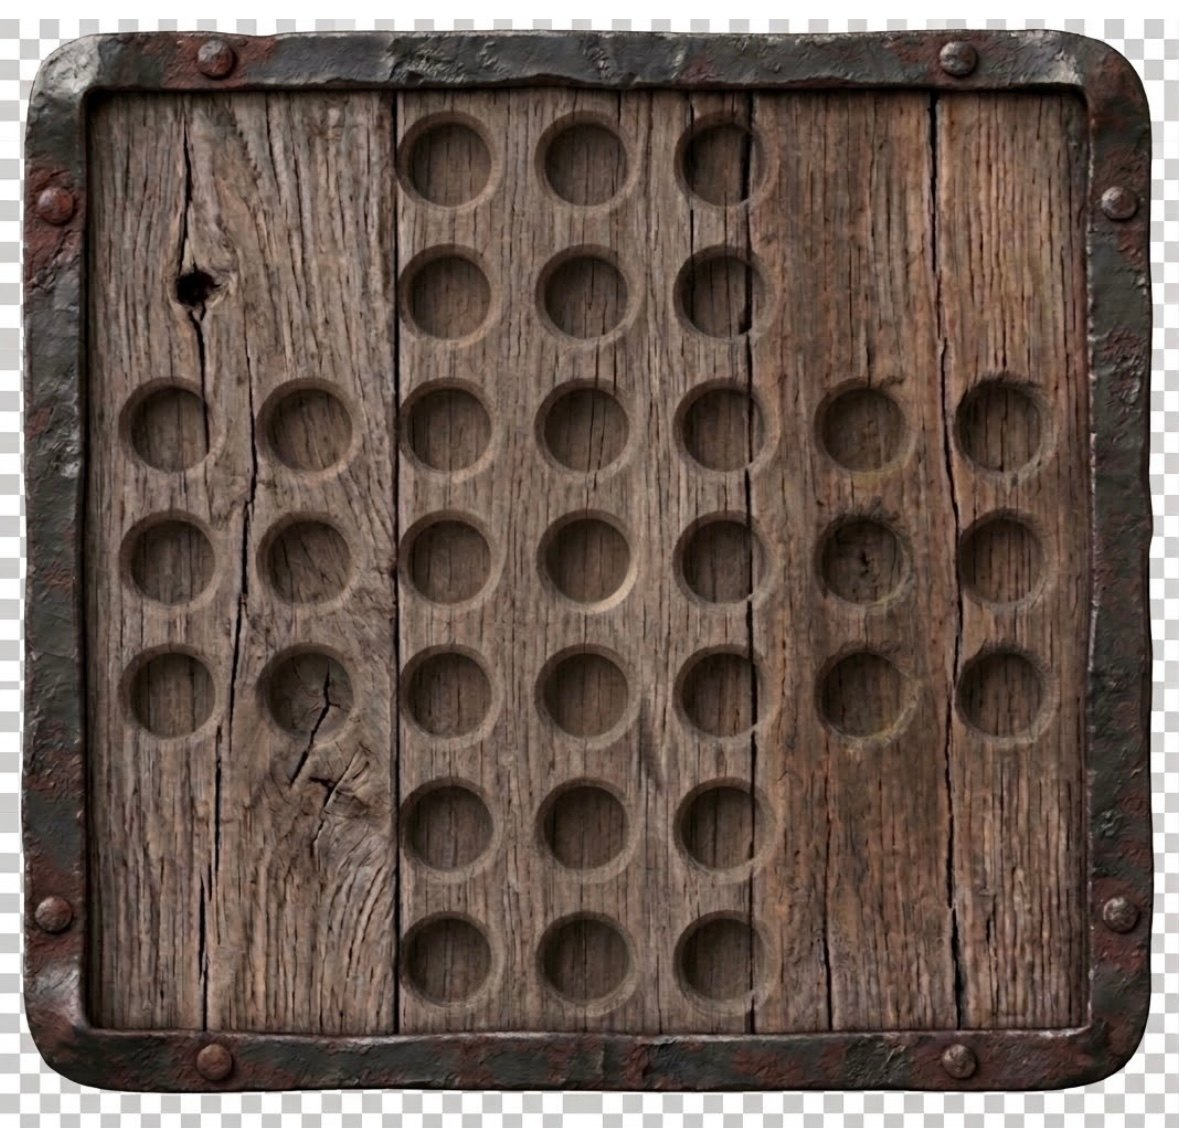
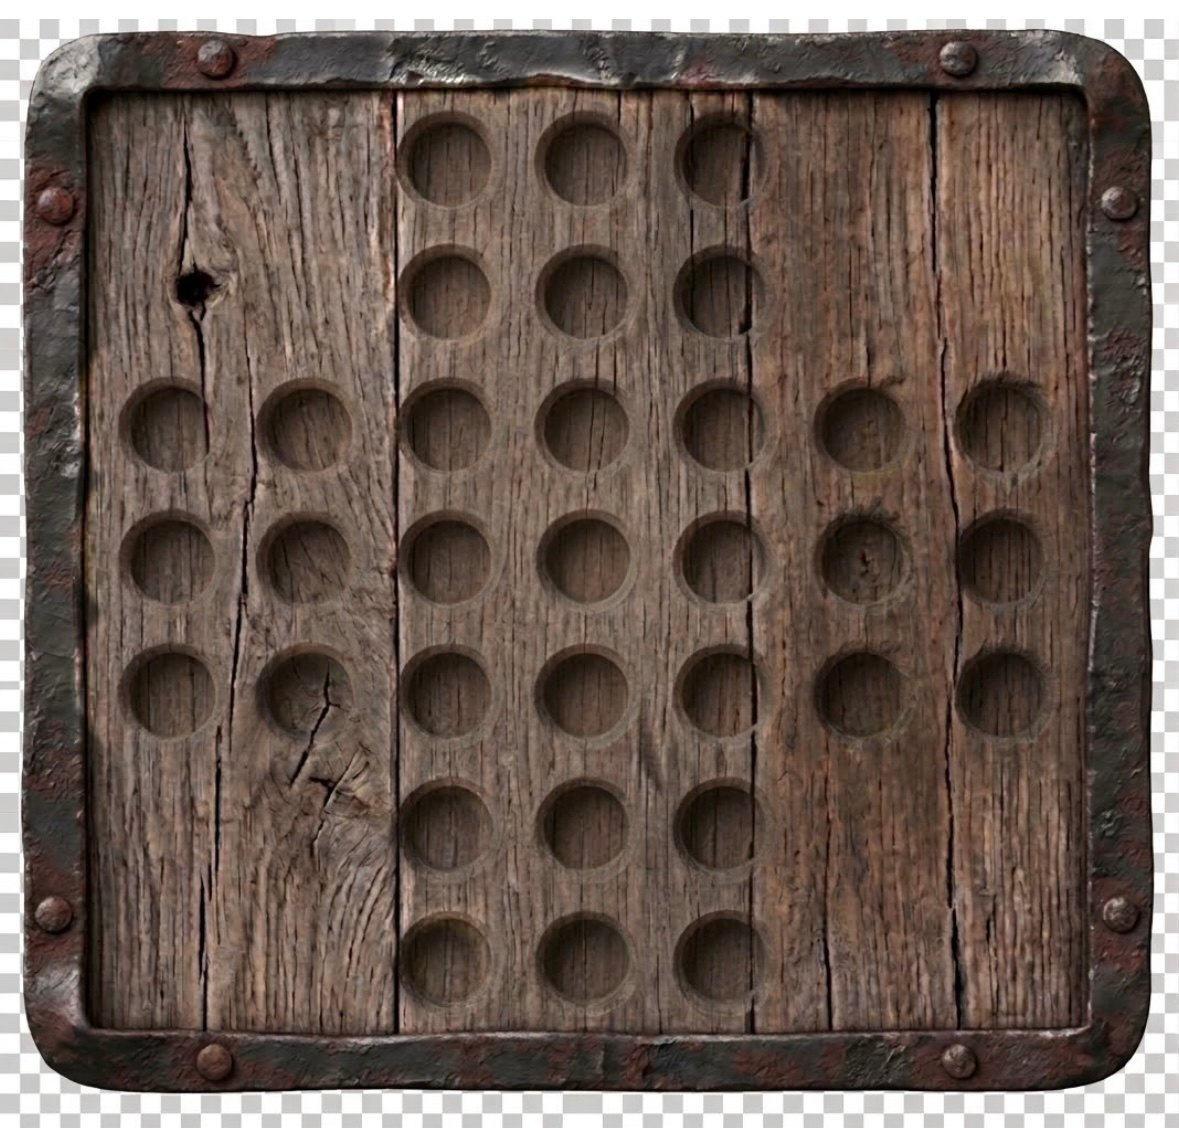
v1.83: Alle Fraesungen gleich, Glanzkante unten rechts entfernt
Form jeder Fraesung (Tiefpass ueber Radius x Winkel, relativ zum Holz)
an den Median aller Loecher angeglichen; die Glanzkante unten rechts
(68-76 px, 13-18 % ueber Holz) nur abgedunkelt. Holzniveau nur an
Punkten innerhalb des Rahmens und >= 84 px von jedem Loch.

Am gerenderten Brett: Glanzkante 1,10 -> 1,01 (schlimmstes 1,34 -> 1,04),
Abweichung der Fraesungen 90 % 0,164 -> 0,059. Mittelloch-Pruefung auf
das eigene Holz bezogen - die absolute mass die Plankenfarbe mit.

Claude-Session: https://claude.ai/code/session_01ChVKrJYHLVFYNTcsCMUMT9

diff --git a/tests/test_browser.js b/tests/test_browser.js
@@ -3777,8 +3777,52 @@ function kurzfassungGleich(proben,voll,erwartet){
   const rms=q=>Math.sqrt(q.reduce((a,v,k)=>a+(v-med[k])**2,0)/q.length);
   const dA=andere.map(rms).sort((a,b)=>a-b), dM=rms(Pr[mitteIdx]), dTyp=dA[Math.floor(dA.length/2)];
   console.log('INFO Foto-Brett, Profilabstand zum typischen Loch: Mitte '+dM.toFixed(1)+', andere Median '+dTyp.toFixed(1)+', schlechtestes '+dA[dA.length-1].toFixed(1));
-  ok('Das Mittelloch sieht aus wie ein typisches Loch (Profilabstand <= 1,25 x Median der anderen)',
-     dM<=dTyp*1.25, dM.toFixed(1)+' gegen '+dTyp.toFixed(1));
+  // Die Pruefung dazu steht unten, auf das Holz um jedes Loch bezogen (v1.83).
+  /* v1.83: Lutz am 24.09.2026: "Auch die Einfraesung soll identisch sein
+     ... zu viel Lichtreflex unten rechts auf dem gefraesten Rand." Gemessen
+     am gerenderten Brett, Holz um jedes Loch = 1:
+     (1) die helle Kante: Ring 46-58 Einheiten, Sektor 15-75 Grad (unten
+         rechts) - Original Median 1,10, schlimmstes Loch 1,34; v1.83 0,99/1,02;
+     (2) wie gleich die Fraesungen sind: je Loch acht Sektoren x 12 Radien
+         bis 48 Einheiten (halber Lochabstand - weiter aussen laege schon
+         das Nachbarloch, und das fehlt den Randloechern) gegen den Median
+         aller Loecher - Original 90 % bei 0,164, max 0,251; v1.83 0,086. */
+  const frRing=(z,r0,r1,a0,a1)=>{ let s=0,n=0; for(let r=r0;r<=r1;r+=0.5) for(let a=a0;a<=a1;a+=3){ const t=a*Math.PI/180;
+    s+=fbL(z.cx+r*fbE*Math.cos(t),z.cy+r*fbE*Math.sin(t)); n++; } return s/n; };
+  /* Holz-Bezug: nur Punkte innerhalb des Eisenrahmens und mindestens 60
+     Einheiten von JEDEM Loch. Ein Ring 62-67 um das Loch lag waagerecht und
+     senkrecht 33-38 Einheiten von der Mitte des Nachbarlochs - in dessen
+     Fraesung. Loecher mit vielen Nachbarn bekamen so zu wenig "Holz". */
+  const frHolz=z=>{ const v=[]; for(let r=60;r<=76;r+=1) for(let a=0;a<360;a+=2){ const t=a*Math.PI/180, X=z.cx+r*fbE*Math.cos(t), Y=z.cy+r*fbE*Math.sin(t);
+      const u=X/fbE, w=Y/fbE; if(u<84||u>784||w<88||w>772) continue; if(lo.some(o=>Math.hypot(X-o.cx,Y-o.cy)<60*fbE)) continue; v.push(fbL(X,Y)); }
+    v.sort((x,y)=>x-y); return v.length>20?v[Math.floor(v.length/2)]:null; };
+  const frHz=lo.map(frHolz), frHm=frHz.filter(v=>v!==null).sort((x,y)=>x-y)[Math.floor(frHz.filter(v=>v!==null).length/2)];
+  const frM=lo.map((z,iz)=>{ const holz=frHz[iz]===null?frHm:frHz[iz]; const sek=[];
+    for(let q=0;q<8;q++) for(let r=4;r<=48;r+=4) sek.push(frRing(z,r-2,r+2,q*45-20,q*45+20)/holz);
+    return {kante:frRing(z,46,58,15,75)/holz, sek}; });
+  const frMed=a=>{ const v=[...a].sort((x,y)=>x-y); return v[Math.floor(v.length/2)]; };
+  const frKanten=frM.map(m=>m.kante), frRef=frM[0].sek.map((_,i)=>frMed(frM.map(m=>m.sek[i])));
+  const frAb=frM.map(m=>Math.sqrt(m.sek.reduce((a,v,i)=>a+(v-frRef[i])**2,0)/frRef.length)).sort((x,y)=>x-y);
+  console.log('INFO Fraesung: Kante unten rechts Median '+frMed(frKanten).toFixed(3)+', max '+Math.max(...frKanten).toFixed(3)
+    +' | Abweichung Median '+frMed(frAb).toFixed(3)+', 90 % '+frAb[Math.floor(frAb.length*0.9)].toFixed(3)+', max '+frAb[frAb.length-1].toFixed(3));
+  /* Mittelloch gegen die anderen - auf das eigene Holz bezogen. Bis v1.82
+     wurde die ABSOLUTE Helligkeit verglichen; seit die Fraesungen an ihr
+     Holz angeglichen sind, liegt das Mittelloch auf einer 9 % helleren
+     Planke auch absolut 9 % heller (6,7 gegen 3,7), bei einer Form, die
+     WENIGER abweicht als das mittlere Loch (0,028 gegen 0,037). Die alte
+     Pruefung mass also die Plankenfarbe mit. */
+  const frMitte=Math.sqrt(frM[mitteIdx].sek.reduce((a,v,i)=>a+(v-frRef[i])**2,0)/frRef.length);
+  console.log('INFO Mittelloch, Form auf eigenes Holz bezogen: '+frMitte.toFixed(3)+', Median aller '+frMed(frAb).toFixed(3));
+  /* Der relative Vergleich allein ist schwach: in Lutz' unbearbeitetem Bild
+     streuten ALLE Loecher so sehr, dass die abweichende Mitte darin
+     unterging (0,079 gegen Median 0,093 - gruen). Deshalb zusaetzlich ein
+     fester Wert: v1.83 0,028, unbearbeitet 0,079. */
+  ok('Das Mittelloch sieht aus wie ein typisches Loch (Form <= 1,25 x Median aller und <= 0,06)',
+     frMitte<=frMed(frAb)*1.25&&frMitte<=0.06, frMitte.toFixed(3)+' gegen '+frMed(frAb).toFixed(3));
+  ok('Die helle Kante unten rechts am gefraesten Rand ist zurueckgenommen (Median <= 1,05, kein Loch ueber 1,10)',
+     frMed(frKanten)<=1.05&&Math.max(...frKanten)<=1.10, frMed(frKanten).toFixed(3)+' / '+Math.max(...frKanten).toFixed(3));
+  ok('Die Fraesungen aller Loecher gleichen sich (90 % Abweichung <= 0,12, keine ueber 0,15)',
+     frAb[Math.floor(frAb.length*0.9)]<=0.12&&frAb[frAb.length-1]<=0.15, frAb[Math.floor(frAb.length*0.9)].toFixed(3)+' / '+frAb[frAb.length-1].toFixed(3));
   await page.evaluate(()=>newGame('english'));
   await page.setViewport({width:390,height:844,deviceScaleFactor:1});
   await new Promise(r=>setTimeout(r,300));

diff --git a/index.html b/index.html
@@ -748,7 +748,7 @@ header, .hud, #status{ text-shadow:0 1px 3px rgba(0,0,0,.75) }
 
 <script>
 'use strict';
-const APP_VERSION='1.82';
+const APP_VERSION='1.83';
 /* =========================================================================
    Kern: Bretter, Züge, Symmetrien, Paritäts-Schranke, Solver
    (als Fabrik, damit derselbe Code im Web Worker läuft)

diff --git a/CLAUDE.md b/CLAUDE.md
@@ -1,6 +1,6 @@
 # Solitaire – Steckbrett-Solitär als Spiel- und Lernapp (iPhone, GitHub Pages)
 
-Stand: v1.82 (24.09.2026). Eine einzige Datei `index.html`, kein Build, keine Abhängigkeiten.
+Stand: v1.83 (24.09.2026). Eine einzige Datei `index.html`, kein Build, keine Abhängigkeiten.
 Autor/Product Owner: Lutz („Neo"). Sprache im Chat und in der App: Deutsch, per Du.
 
 ## Was die App kann
@@ -98,7 +98,16 @@ Autor/Product Owner: Lutz („Neo"). Sprache im Chat und in der App: Deutsch, pe
   **Die erste Schachbrett-Prüfung beschrieb Eisen, nicht Schachbrett**: „helle, farblose Bildpunkte" fand 1023 – alle auf dem blanken Glanz des Rahmens oben links. Geprüft wird jetzt, ob das Foto **außerhalb des Rahmens überhaupt einen Bildpunkt ändert** (Brett mit gegen ohne Bild): **0 von 109.584**; Negativprobe mit der alten Maske: 106.218.
   **Und im Einzellauf maß sie das Startbild** – „außerhalb ändert sich nichts" war dort trivial wahr. Das Startbild baut beim Verschwinden das Spiel neu auf, also auch die gerade geleerten Steine. Die Prüfung wartet jetzt das Startbild ab, leert erst danach und verlangt per `elementFromPoint` an drei Stellen das Brett **und** null `[data-peg]`. Dritter Fall dieses Musters nach v1.77 und v1.81.
   **„Malt nichts Rotes" zum fünften Mal umgestellt**: 33 von 35 gemeldeten Punkten änderten sich um 3–6 Stufen – ein oranger Rand bei R = 177 rutschte über die Schwelle 180. Verlangt wird jetzt zusätzlich eine echte Änderung (Summe > 30); danach 2.
-  Fünf Prüfungen in `test_browser`: Messstelle ist das leere Brett, Maße in `FOTO_BRETT` gehören zur Datei, Maske bleibt im Rahmen, außerhalb des Rahmens ändert das Foto nichts, Mittelloch im Profilabstand ≤ 1,25 × Median der anderen (gemessen 3,5 gegen 4,2).
+  Fünf Prüfungen in `test_browser`: Messstelle ist das leere Brett, Maße in `FOTO_BRETT` gehören zur Datei, Maske bleibt im Rahmen, außerhalb des Rahmens ändert das Foto nichts, Mittelloch (seit v1.83 auf das eigene Holz bezogen, siehe dort).
+- **Alle Fräsungen gleich, ohne Glanzkante unten rechts** (`3-brett.jpg` bearbeitet, Werkzeug nicht im Repo – v1.83). Lutz am 24.09.2026: „Auch die Einfräsung soll identisch sein … zu viel Lichtreflex unten rechts auf dem gefrästen Rand."
+  **Gemessen, wo die Kante liegt**: über alle 33 Löcher gemittelt bei **68–76 Bildpunkten** von der Lochmitte (im Foto), Sektor unten rechts, **13–18 % heller als das Holz**. Um jede Murmel (r = 34 Einheiten ≈ 47 Bildpunkte) bleibt die Fräsung als Ring sichtbar, und darauf saß die Sichel.
+  **Zwei Schritte, getrennt**: (1) die **Form** jeder Fräsung (Tiefpass der Helligkeit über Radius × Winkel, relativ zum Holz um das Loch) an den Median aller Löcher angleichen – voll bis 76 Bildpunkte, ausblendend bis 88; die Maserung bleibt, weil nur mit dem Verhältnis zum Tiefpass multipliziert wird. (2) Die **Glanzkante nur abdunkeln, nie aufhellen**, nur im Sektor unten rechts (±30° Auslauf), r 50–98, bis auf Holzniveau.
+  **Vier Fehlversuche, alle über das Differenzbild gefunden** (Verhältnis neu/alt, weichgezeichnet, ±10 % = schwarz/weiß): (a) Korrektur bis 96 Bildpunkte → flächige Flecken über ±10 % zwischen den Löchern. (b) Holzniveau im Ring 82–92 → der liegt waagerecht schon in der Fräsung der Nachbarn; Löcher mit vier Nachbarn wurden als Ganzes dunkler. (c) Holz diagonal abgelesen → bei Randlöchern liegt dort der Eisenrahmen, oberste Reihe und linke Spalte wurden flächig dunkel. (d) Niveau je Loch festgehalten → keine Flecken mehr, aber die Form glich sich zu wenig an. **Holz wird jetzt nur an Punkten abgelesen, die sicher Holz sind**: innerhalb des Rahmens (x 100…1078, y 100…1020) und mindestens 84 Bildpunkte von **jedem** Loch.
+  **Einheiten verwechselt, einmal**: die Prüfung maß die Form bis 60 *Einheiten* (≈ 83 Bildpunkte), die Angleichung reichte bis 60 *Bildpunkte*. Jetzt misst sie bis 48 Einheiten, dem halben Lochabstand – weiter außen läge schon das Nachbarloch, und das fehlt den Randlöchern.
+  **Gemessen am gerenderten Brett**, Holz um jedes Loch = 1: Glanzkante Median **1,10 → 1,01**, schlimmstes Loch **1,34 → 1,04**; Abweichung der Fräsungen 90 % **0,164 → 0,059**, max 0,251 → 0,113. Negativprobe mit dem v1.82-Bild: beide Prüfungen rot.
+  **Die Prüfung aufs Mittelloch aus v1.82 maß die Plankenfarbe mit** und wurde rot (6,7 gegen 3,7): sie verglich die absolute Helligkeit, und das Mittelloch liegt auf einer **9 % helleren Planke**. Auf das eigene Holz bezogen weicht es **weniger** ab als das mittlere Loch (0,028 gegen 0,037). Umgestellt – aber der relative Vergleich allein fing Lutz' unbearbeitetes Bild nicht (dort streuten *alle* Löcher, 0,079 gegen Median 0,093), deshalb zusätzlich fest ≤ 0,06.
+  **Der Holzbezug der Kennzahl war zuerst selbst falsch**: ein Ring 62–67 Einheiten um das Loch liegt waagerecht 33–38 Einheiten von der Mitte des Nachbarlochs – in dessen Fräsung. Mit dem Ring wirkte die Bearbeitung schlechter, als sie war.
+  Drei Prüfungen in `test_browser` (Glanzkante, Gleichheit der Fräsungen, Mittelloch).
 - **Lesbarkeit auf Holz – Variante A „Tafel“** (`html.holzgrund`, `#status::before`, `ampellaufholz` – v1.80). Lutz am 23.09.2026: „Der Hintergrund passt, das Spielfeld passt. Wir müssen jetzt nur überlegen, wie wir die Lesbarkeit optimieren." Nach der Regel „bei Neuem auf dem Bildschirm erst ein Bild“ zwei Varianten gerendert und gemessen, **A gewählt** – „aber nur für diesen Fall mit dem Spezialhintergrund“.
   **Erst gemessen, was schwach ist – und was nicht.** Kopfzeile und Zähler waren gut (Kontrast im schlechtesten Zehntel 4,3 bis 6,9 : 1; der Hof aus v1.77 wirkt) und bleiben unangetastet. Schwach waren vier Stellen, und die schlimmste war die wichtigste: **das grüne „1 Stein bleibt erreichbar“ kam auf 2,6 : 1** – unter dem Mindestmaß 4,5 : 1 für 15-px-Schrift, weil das Grün dunkler ist als das Beige der übrigen Schrift und dahinter die unruhigste Maserung des Schirms liegt.
   **Gemessen wird die Schrift gegen die Bildpunkte, die wirklich hinter ihr liegen** (Schrift unsichtbar geschaltet, 90. Perzentil der Helligkeit als schlechtester Fall), nicht gegen eine angenommene Hintergrundfarbe. Die Abhebung von Knöpfen: mittlere Farbdifferenz mit gegen ohne das Element.
@@ -305,6 +314,7 @@ Autor/Product Owner: Lutz („Neo"). Sprache im Chat und in der App: Deutsch, pe
 - **Icon** (`2-icon.png` 180 px, `2-icon-1024.png` 1024 px): Foto eines Nussbaumbretts mit bunten Murmeln, von Lutz beigesteuert. Entscheidend war der Vergleich bei 58 px – der Größe auf dem Home-Bildschirm: Große, satte Murmeln mit Schatten ergeben dort noch ein erkennbares Kreuz, das früher gerenderte Brett zerfiel in Pixelrauschen. Nicht die Zahl der Elemente entscheidet, sondern ob sie zusammen eine Form ergeben. 16 px des Originals ringsum beschnitten (helle Ecken).
 - **Standardthema** bleibt `glas` („Samt & Glas“, blaues Brett). Die Nussbaum-Optik aus dem Startbild ist als Thema „Nussbaum & Glas“ wählbar und liefert zugleich das Motiv für das Home-Bildschirm-Icon (`2-icon.png`), aber nicht das Spielbrett.
 - **Versionszählung (Vorgabe von Lutz).** Die zweite Stelle zählt die **Auslieferungen**, die etwas Sichtbares verändert haben – `index.html` oder die Icons: v1.1 war der hochgeladene Stand, danach 16 weitere → v1.17. Reine Doku- oder Test-Commits zählen nicht mit (`git log --oneline <stand>..HEAD -- index.html | wc -l`). Die erste Stelle bleibt für neue Substanz reserviert – Lernsystem, Offline-Betrieb, ein weiteres Brett. `APP_VERSION` ist die einzige Quelle; sie steht im Startbild (`#splashVersion`) und im Menü, beide werden im Test dagegen geprüft.
+- **v1.83** (24.09.2026): Alle gefrästen Ränder sehen jetzt gleich aus, und die helle Lichtkante unten rechts an jedem Loch ist weg.
 - **v1.82** (24.09.2026): Das Loch in der Mitte des Foto-Bretts ist jetzt so groß und so gefast wie alle anderen – eingesetzt aus seinem Nachbarn derselben Planke. Dazu Lutz' schärfere Vorlage (1,7-fache Auflösung).
 - **v1.81** (23.09.2026): Ton – ein Kontext, der „läuft“ meldet, aber stumm ist, wird an seiner stehenden Uhr erkannt und in der nächsten Berührung ersetzt; nicht laufende Kontexte werden in der Berührung sofort neu gebaut. Dazu „Ton prüfen“ im Menü mit Protokoll und Testton für einen Screenshot im Fehlerfall. Enthält v1.80, die nicht allein ausgeliefert wurde.
 - **v1.80** (23.09.2026): Lesbarkeit auf Holz – eine dunkle Glastafel hinter der Statuszeile (das grüne Urteil stieg von 2,6 auf 6,3 : 1), ausgegraute Knöpfe bleiben als Knopf sichtbar, Ampel mit dunklerem Gehäuse. Alles an einem Schalter mit dem Holz.
